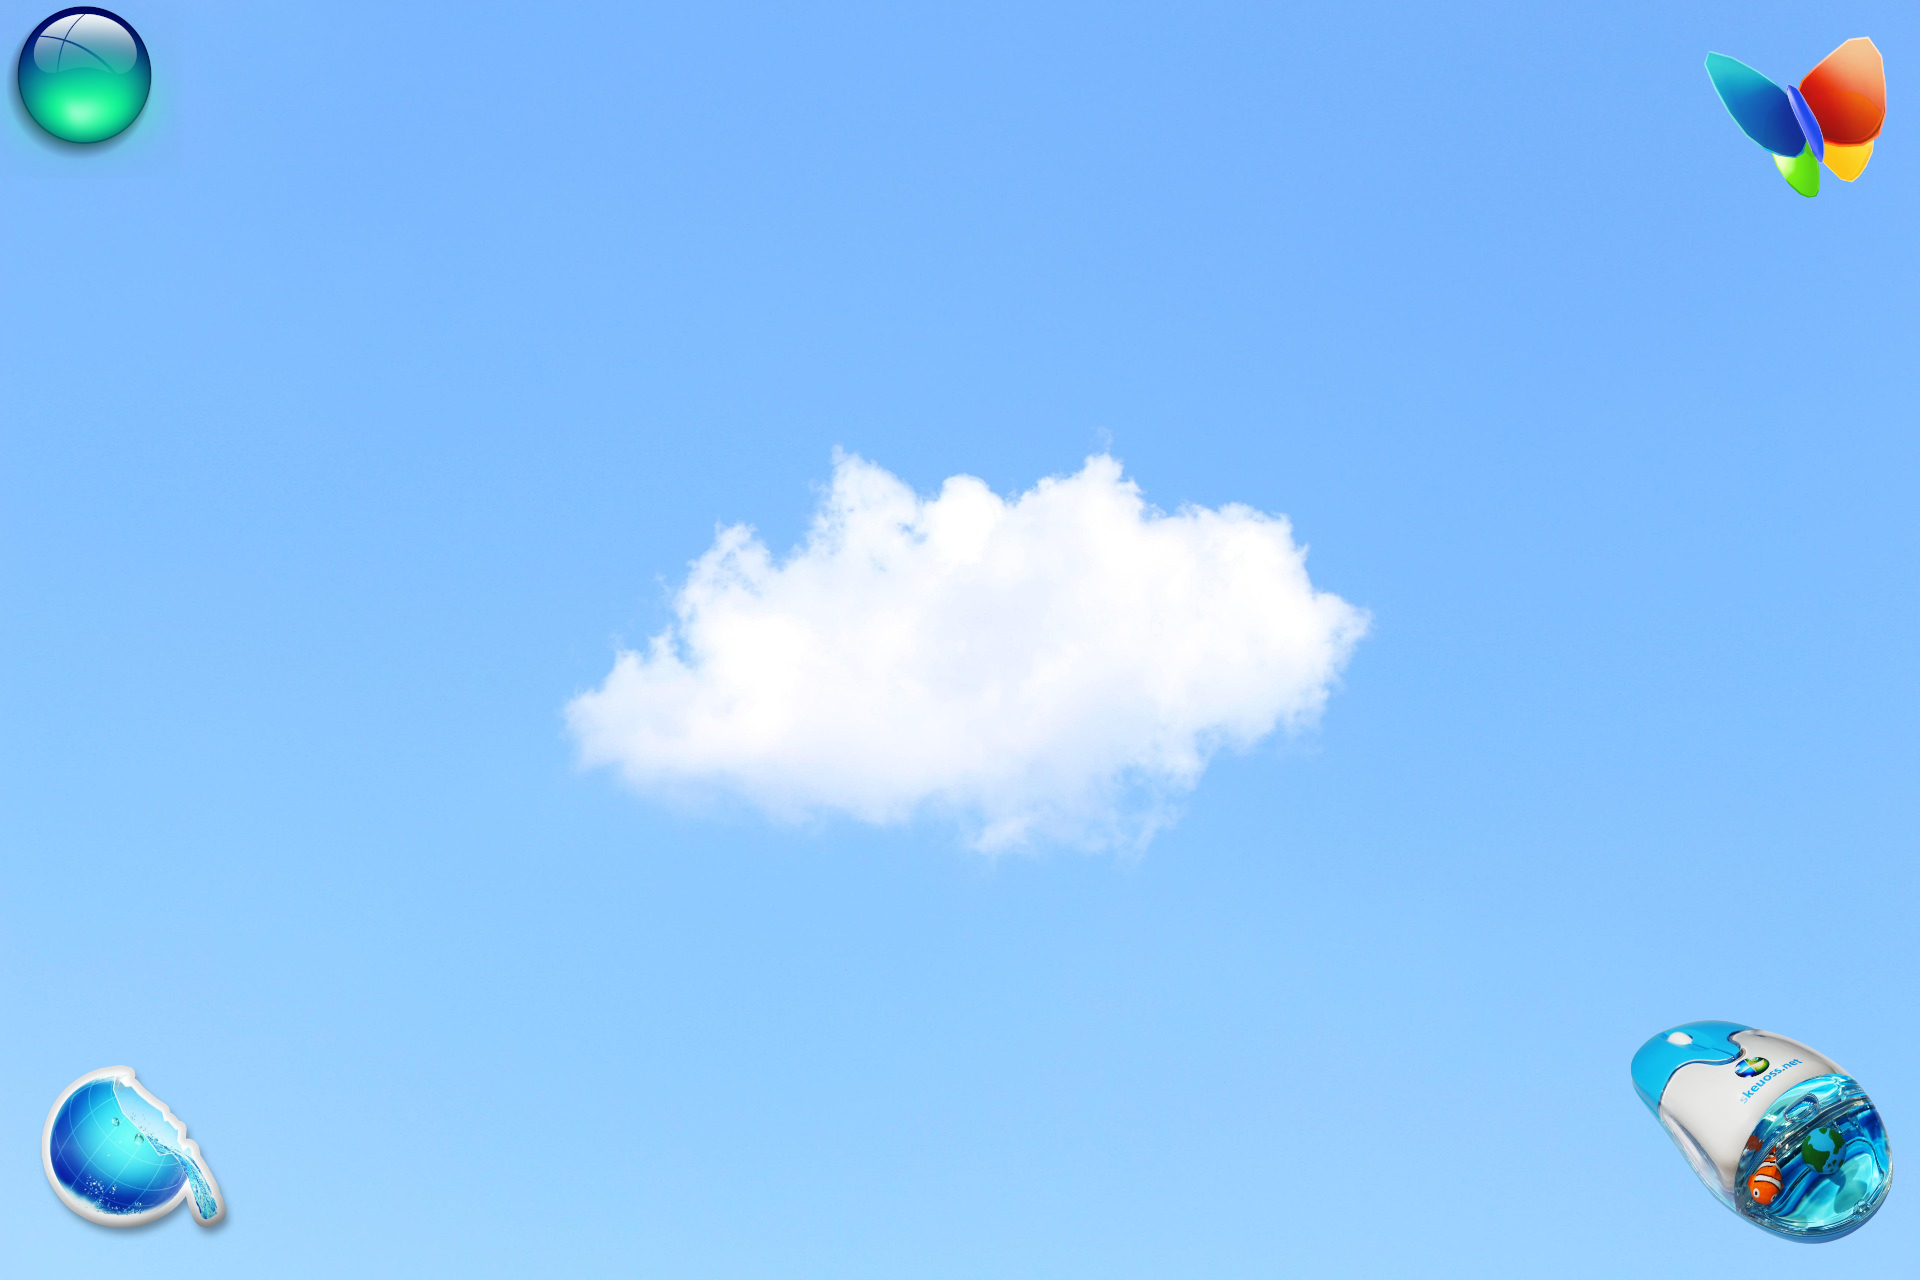
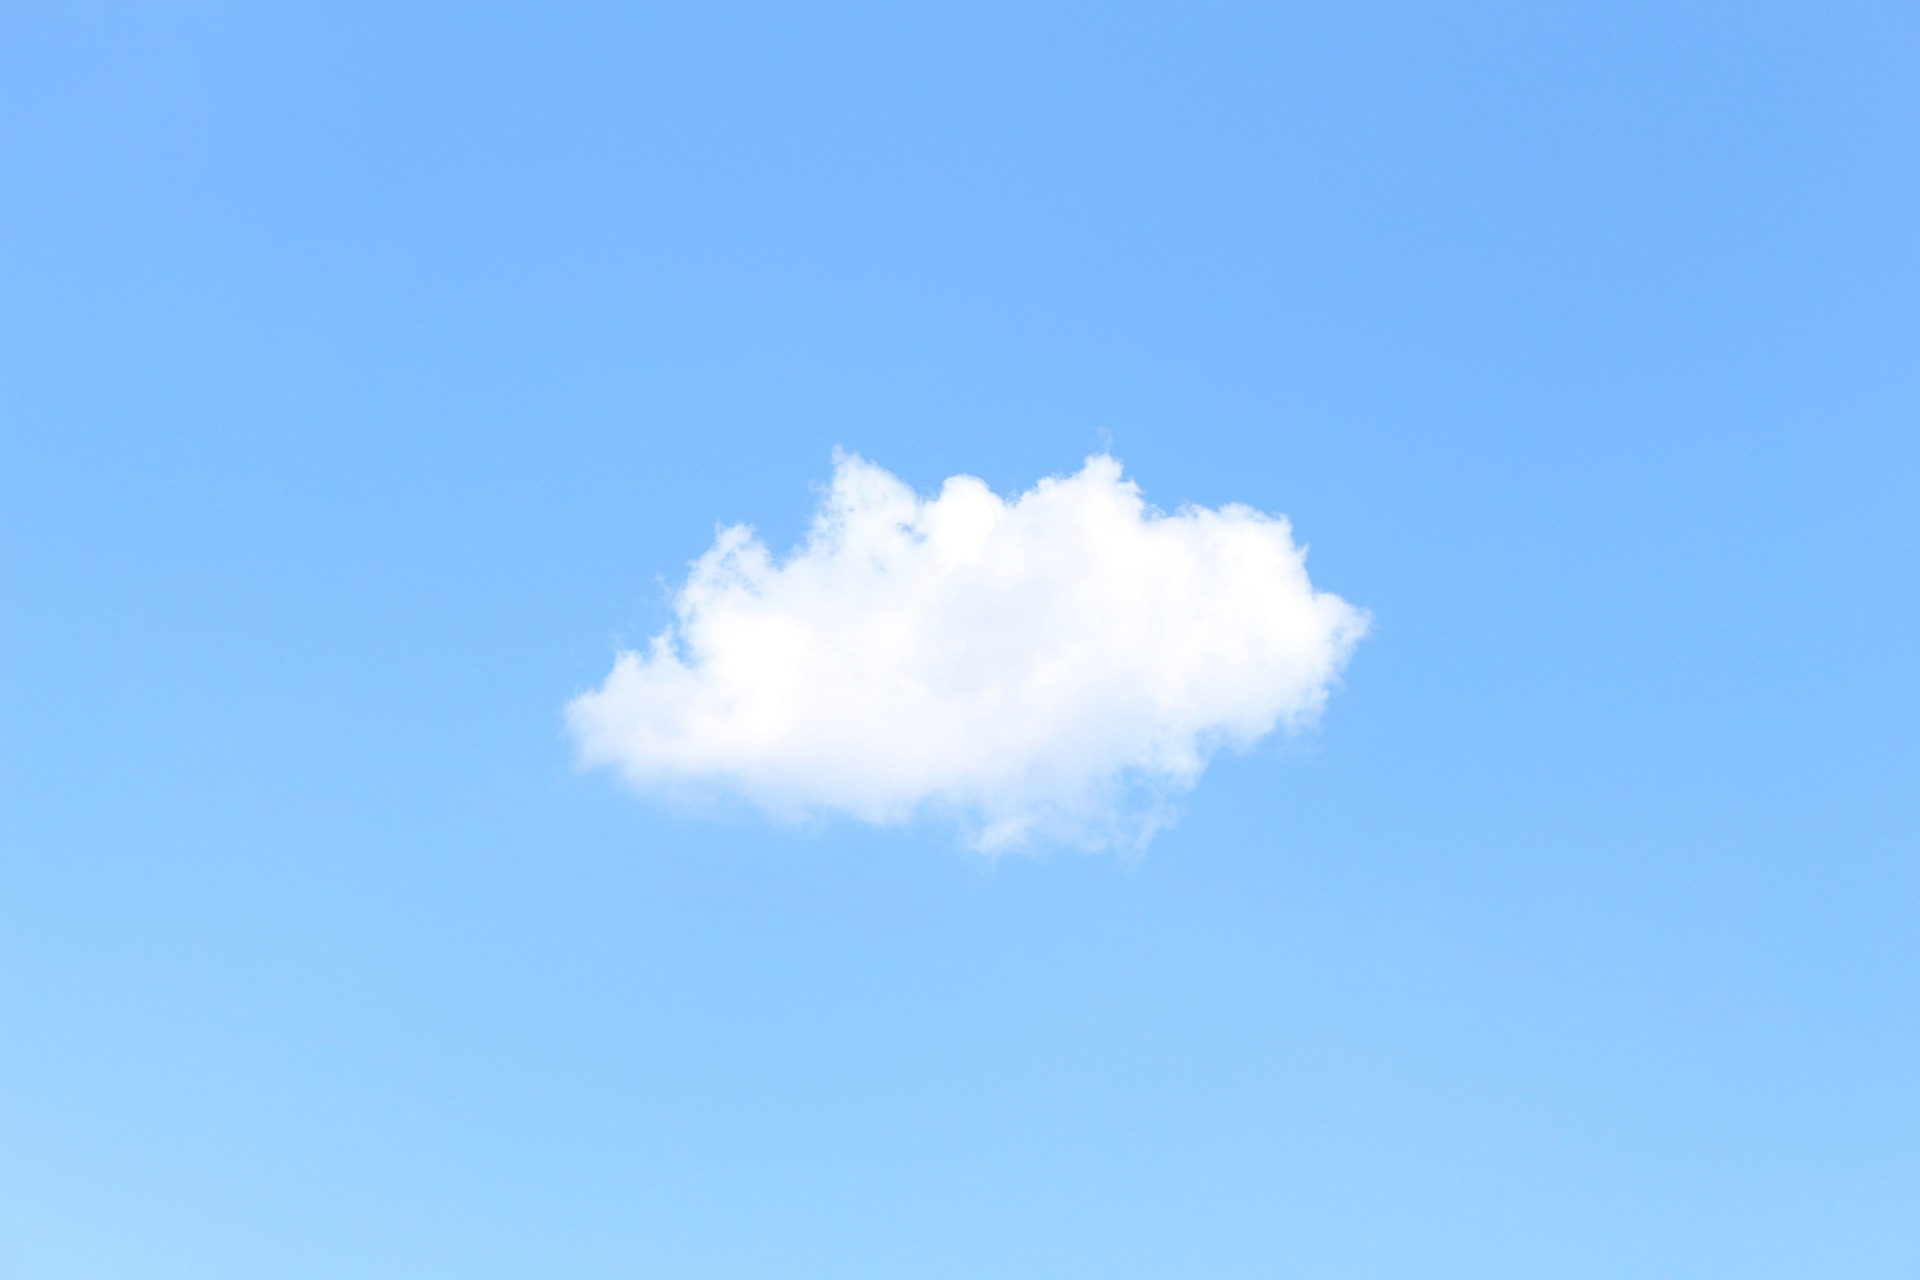
1.0

diff --git a/index.htm b/index.htm
@@ -3,70 +3,88 @@
 <head>
     <meta charset="UTF-8">
     <meta name="viewport" content="width=device-width, initial-scale=1.0">
-    <title>Frutiger Aero Panel</title>
+    <title>Frutiger Aero Panel - Full Edition</title>
     <link rel="stylesheet" href="style.css">
 </head>
 <body>
     <div class="wallpaper-bg"></div>
 
+    <div class="decor-icons top-icons">
+        <img src="img/icons/frutiger3.png" class="blink-icon" style="--delay: 1s" alt="icon">
+        <img src="img/icons/frutiger4.png" class="blink-icon" style="--delay: 3s" alt="icon">
+    </div>
+
     <div class="master-wrapper">
         <main class="container">
+            
             <section class="window-xp div-1">
                 <div class="title-bar">
-                    <div class="title-text">Visualizador de Slides</div>
+                    <div class="title-text">Visualizador de Conteúdo</div>
                     <div class="window-controls"><span>_</span><span>□</span><span class="close">X</span></div>
                 </div>
-                <div class="window-content">
+                <div class="window-content slide-viewport">
                     <div class="glass-reflection"></div>
-                    <img id="slide-display" src="img/slides/slide1.png" alt="Slideshow">
+                    <div id="slide-track" class="slide-track">
+                        <img src="img/slides/slide1.png" alt="Slide 1">
+                        <img src="img/slides/slide2.png" alt="Slide 2">
+                        <img src="img/slides/slide3.png" alt="Slide 3">
+                        <img src="img/slides/slide4.png" alt="Slide 4">
+                        <img src="img/slides/slide5.png" alt="Slide 5">
+                    </div>
                 </div>
             </section>
 
             <section class="window-xp grid-window">
-                <div class="title-bar blue-gradient">
-                    <div class="title-text">Painel de Aplicativos</div>
+                <div class="title-bar">
+                    <div class="title-text">Acessos Rápidos</div>
                     <div class="window-controls"><span>_</span><span>□</span><span class="close">X</span></div>
                 </div>
                 <div class="window-content grid-botoes">
-                    <a href="#" class="btn-aero" data-key="1">
+                    <a href="https://juniorcriste.github.io/QuizCapixaba/" class="btn-aero" data-key="1">
                         <div class="glass-shine"></div>
-                        <img src="img/btn/element1.png" alt="Element 1">
+                        <img src="img/btn/element1.png">
                     </a>
                     <a href="#" class="btn-aero" data-key="2">
                         <div class="glass-shine"></div>
-                        <img src="img/btn/element2.png" alt="Element 2">
+                        <img src="img/btn/element2.png">
                     </a>
                     <a href="#" class="btn-aero" data-key="3">
                         <div class="glass-shine"></div>
-                        <img src="img/btn/element3.png" alt="Element 3">
+                        <img src="img/btn/element3.png">
                     </a>
                     <a href="#" class="btn-aero" data-key="4">
                         <div class="glass-shine"></div>
-                        <img src="img/btn/element4.png" alt="Element 4">
+                        <img src="img/btn/element4.png">
                     </a>
                     <a href="#" class="btn-aero" data-key="5">
                         <div class="glass-shine"></div>
-                        <img src="img/btn/element5.png" alt="Element 5">
+                        <img src="img/btn/element5.png">
                     </a>
                     <a href="#" class="btn-aero" data-key="6">
                         <div class="glass-shine"></div>
-                        <img src="img/btn/element6.png" alt="Element 6">
+                        <img src="img/btn/element6.png">
                     </a>
                     <a href="#" class="btn-aero" data-key="7">
                         <div class="glass-shine"></div>
-                        <img src="img/btn/element7.png" alt="Element 7">
+                        <img src="img/btn/element7.png">
                     </a>
                     <a href="#" class="btn-aero" data-key="8">
                         <div class="glass-shine"></div>
-                        <img src="img/btn/element8.png" alt="Element 8">
+                        <img src="img/btn/element8.png">
                     </a>
                     <a href="#" class="btn-aero" data-key="9">
                         <div class="glass-shine"></div>
-                        <img src="img/btn/element9.png" alt="Element 9">
+                        <img src="img/btn/element9.png">
                     </a>
                 </div>
             </section>
+
         </main>
+    </div>
+
+    <div class="decor-icons bottom-icons">
+        <img src="img/icons/frutiger1.png" class="blink-icon" style="--delay: 5s" alt="icon">
+        <img src="img/icons/frutiger2.png" class="blink-icon" style="--delay: 7s" alt="icon">
     </div>
 
     <script src="script.js"></script>

diff --git a/style.css b/style.css
@@ -1,7 +1,7 @@
 :root {
     --xp-blue: #0058e7;
     --xp-header: linear-gradient(to bottom, #0058e7 0%, #3a93ff 10%, #0058e7 100%);
-    --aero-glass: rgba(255, 255, 255, 0.2);
+    --aero-glass: rgba(255, 255, 255, 0.25);
 }
 
 body {
@@ -14,116 +14,150 @@ body {
     font-family: 'Segoe UI', Tahoma, sans-serif;
 }
 
-/* Fundo com Wallpaper */
+/* Background */
 .wallpaper-bg {
     position: fixed;
     top: 0; left: 0; width: 100%; height: 100%;
-    background: url('img/wallpaper/wallpaper.png') no-repeat center center;
+    background: url('img/wallpaper.png') no-repeat center center;
     background-size: cover;
-    z-index: -1;
+    z-index: -2;
 }
 
-/* Escala Reduzida */
+/* Escala e Layout */
 .master-wrapper {
-    transform: scale(0.85); /* Reduzindo a escala geral */
+    transform: scale(0.8); /* Escala reduzida conforme pedido */
     width: 95vw;
-    display: flex;
-    justify-content: center;
+    z-index: 10;
 }
 
 .container {
     display: flex;
     gap: 30px;
-    width: 100%;
-    max-width: 1200px;
+    max-width: 1300px;
+    margin: 0 auto;
 }
 
 /* Janela Estilo XP */
 .window-xp {
-    background: #ece9d8; /* Cor clássica do fundo das janelas XP */
+    background: #ece9d8;
     border: 3px solid var(--xp-blue);
     border-radius: 8px 8px 0 0;
-    box-shadow: 0 10px 30px rgba(0,0,0,0.5);
+    box-shadow: 0 15px 40px rgba(0,0,0,0.4);
     display: flex;
     flex-direction: column;
 }
 
 .title-bar {
     background: var(--xp-header);
-    padding: 5px 10px;
+    padding: 6px 12px;
     display: flex;
     justify-content: space-between;
     align-items: center;
     color: white;
     font-weight: bold;
-    text-shadow: 1px 1px 2px rgba(0,0,0,0.5);
+    text-shadow: 1px 1px 1px rgba(0,0,0,0.5);
 }
 
 .window-controls span {
     background: #e04343;
     border: 1px solid white;
-    padding: 0 5px;
+    padding: 0 6px;
     margin-left: 2px;
     border-radius: 2px;
-    cursor: pointer;
+    font-size: 12px;
 }
 
 .window-content {
-    position: relative;
-    padding: 10px;
     background: var(--aero-glass);
-    backdrop-filter: blur(10px);
-    flex: 1;
+    backdrop-filter: blur(12px);
+    position: relative;
+    padding: 15px;
 }
 
-/* Div do Slide */
-.div-1 { flex: 1.5; }
-.div-1 img {
-    width: 100%;
-    height: 100%;
-    border-radius: 4px;
-    display: block;
+/* Sistema de Slide */
+.div-1 { flex: 1.6; }
+
+.slide-viewport {
+    overflow: hidden;
+    padding: 0 !important;
+    border: 1px solid rgba(0,0,0,0.2);
+}
+
+.slide-track {
+    display: flex;
+    width: 500%; /* 5 imagens */
+    transition: transform 0.8s cubic-bezier(0.645, 0.045, 0.355, 1);
+}
+
+.slide-track img {
+    width: 20%;
+    height: 450px; /* Altura fixa para manter proporção */
+    object-fit: cover;
 }
 
 /* Grid de Botões */
 .grid-window { flex: 1; }
+
 .grid-botoes {
     display: grid;
     grid-template-columns: repeat(3, 1fr);
-    gap: 10px;
+    gap: 12px;
 }
 
-/* Botões com Efeito Vidro Frutiger Aero */
 .btn-aero {
     position: relative;
-    background: linear-gradient(135deg, rgba(255,255,255,0.4) 0%, rgba(255,255,255,0.1) 100%);
-    border: 1px solid rgba(255,255,255,0.5);
-    border-radius: 10px;
+    background: linear-gradient(135deg, rgba(255,255,255,0.5) 0%, rgba(255,255,255,0.1) 100%);
+    border: 1px solid rgba(255,255,255,0.6);
+    border-radius: 12px;
+    padding: 15px;
     overflow: hidden;
-    transition: all 0.3s ease;
+    transition: all 0.2s ease;
     display: flex;
     justify-content: center;
     align-items: center;
-    padding: 5px;
 }
 
 .btn-aero img {
-    width: 80%;
-    height: auto;
-    filter: drop-shadow(0 2px 4px rgba(0,0,0,0.2));
+    width: 100%;
+    max-width: 60px;
+    filter: drop-shadow(0 4px 4px rgba(0,0,0,0.2));
 }
 
-/* Efeito de Reflexo (Reflective Shine) */
+/* Efeito Vidro Reflexo */
 .glass-shine, .glass-reflection {
     position: absolute;
     top: 0; left: 0; width: 100%; height: 50%;
-    background: linear-gradient(to bottom, rgba(255,255,255,0.6) 0%, rgba(255,255,255,0) 100%);
+    background: linear-gradient(to bottom, rgba(255,255,255,0.7) 0%, rgba(255,255,255,0) 100%);
     pointer-events: none;
-    z-index: 3;
+    z-index: 5;
 }
 
-.btn-aero:hover {
-    transform: scale(1.05) translateY(-2px);
-    background: rgba(255, 255, 255, 0.4);
-    box-shadow: 0 0 15px rgba(255,255,255,0.8);
+/* Animação de Clique */
+.btn-aero:active {
+    transform: scale(0.9);
+    filter: brightness(1.3);
+}
+
+/* Ícones Externos */
+.decor-icons {
+    position: fixed;
+    display: flex;
+    gap: 20px;
+    z-index: 100;
+}
+
+.top-icons { top: 30px; right: 50px; }
+.bottom-icons { bottom: 30px; left: 50px; }
+
+.blink-icon {
+    width: 50px;
+    height: 50px;
+    opacity: 0.6;
+    animation: aeroBlink 8s infinite ease-in-out;
+    animation-delay: var(--delay);
+}
+
+@keyframes aeroBlink {
+    0%, 90%, 100% { opacity: 0.6; transform: scale(1); filter: brightness(1); }
+    95% { opacity: 1; transform: scale(1.1); filter: brightness(1.5) drop-shadow(0 0 10px white); }
 }

diff --git a/script.js b/script.js
@@ -1,39 +1,36 @@
-let currentSlide = 1;
-const totalSlides = 5; 
-const slideImg = document.getElementById('slide-display');
+// Configuração do Slider
+let currentSlide = 0;
+const totalSlides = 5;
+const slideTrack = document.getElementById('slide-track');
 
-function changeSlide() {
-    // Efeito de transição: leve zoom e fade
-    slideImg.style.opacity = '0';
-    slideImg.style.transform = 'scale(1.1)';
-
-    setTimeout(() => {
-        currentSlide++;
-        if (currentSlide > totalSlides) currentSlide = 1;
-        
-        slideImg.src = `img/slides/slide${currentSlide}.png`;
-        slideImg.style.opacity = '1';
-        slideImg.style.transform = 'scale(1)';
-    }, 800);
+function moveSlide() {
+    currentSlide++;
+    if (currentSlide >= totalSlides) {
+        currentSlide = 0;
+    }
+    const offset = currentSlide * -20; // -20% para cada um dos 5 slides
+    slideTrack.style.transform = `translateX(${offset}%)`;
 }
 
-setInterval(changeSlide, 7000);
+// Troca automática a cada 6 segundos
+setInterval(moveSlide, 6000);
 
-// Atalhos de teclado (Mantido)
+// Atalhos de Teclado e Efeito Visual
 document.addEventListener('keydown', (e) => {
     const keyLinks = {
         "1": "https://juniorcriste.github.io/QuizCapixaba/",
-        "2": "https://juniorcriste.github.io/QuizCapixaba/",
-        "3": "https://juniorcriste.github.io/QuizCapixaba/",
-        "4": "https://juniorcriste.github.io/QuizCapixaba/",
-        "5": "https://juniorcriste.github.io/QuizCapixaba/",
-        "6": "https://juniorcriste.github.io/QuizCapixaba/",
-        "7": "https://juniorcriste.github.io/QuizCapixaba/",
-        "8": "https://juniorcriste.github.io/QuizCapixaba/",
-        "9": "https://juniorcriste.github.io/QuizCapixaba/"
+        "2": "#", "3": "#", "4": "#", "5": "#",
+        "6": "#", "7": "#", "8": "#", "9": "#"
     };
 
     if (keyLinks[e.key]) {
-        window.location.href = keyLinks[e.key];
+        const btn = document.querySelector(`[data-key="${e.key}"]`);
+        if (btn) {
+            // Efeito visual de clique ao apertar tecla
+            btn.style.transform = "scale(0.9)";
+            setTimeout(() => {
+                window.location.href = keyLinks[e.key];
+            }, 150);
+        }
     }
 });
